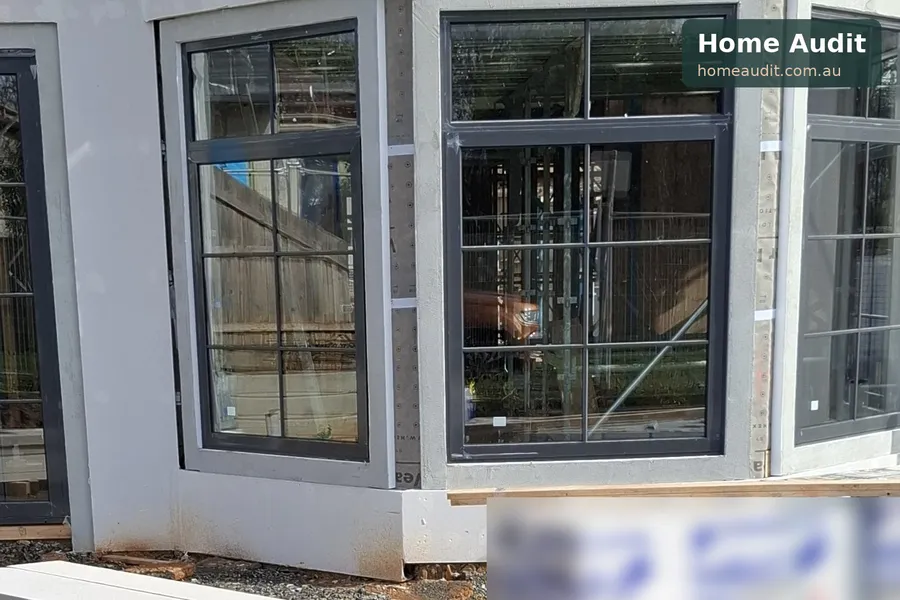
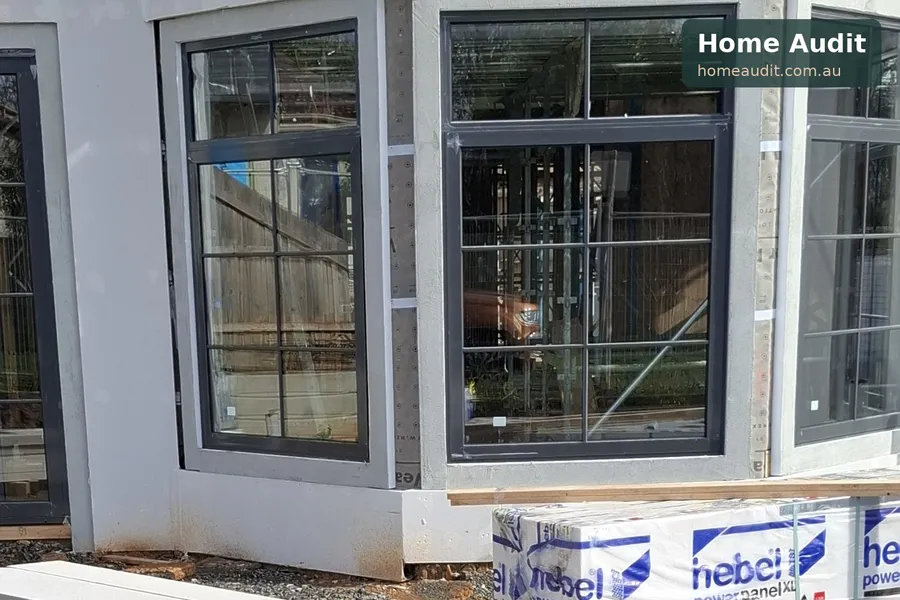
Frame stud case study; Hebel photo unblurred
Claude-Session: https://claude.ai/code/session_01BfHj1AeBmEoubpxuRUNwdY

Changed region(s): [[0.5289, 0.81, 1.0, 1.0]]

diff --git a/components/case-study.tsx b/components/case-study.tsx
@@ -126,3 +126,40 @@ export function HebelBaseCaseStudy() {
     />
   )
 }
+
+// New home frame stage: warped studs that would leave the plasterboard
+// uneven. Fixed by the builder within a week of the report.
+export function FrameStudCaseStudy() {
+  return (
+    <CaseStudy
+      eyebrow="From a recent frame inspection"
+      heading="Warped studs found before the plasterboard went on."
+      steps={[
+        ['Gaps.', 'A long level held across the studs showed gaps where studs were out of line.'],
+        ['Warped stud.', 'One stud had bent out of line with the rest of the wall.'],
+        [
+          'Why it matters.',
+          'Plasterboard fixed to warped studs can end up uneven or wavy. Once the plasterboard is on, this is almost impossible to fix.',
+        ],
+      ]}
+      body={['The report went to the builder, and the problem was fixed within a week.']}
+      cta={{ href: '/quote?service=new-home', label: 'Get a quote' }}
+      images={[
+        {
+          src: '/case-study-frame-gaps.webp',
+          alt: 'A level held across wall studs at frame stage, showing gaps where studs are out of line',
+          width: 900,
+          height: 1200,
+          label: 'Gaps between the level and the studs',
+        },
+        {
+          src: '/case-study-frame-stud-warped.webp',
+          alt: 'A level held against a warped timber stud at frame stage',
+          width: 900,
+          height: 1200,
+          label: 'A warped stud',
+        },
+      ]}
+    />
+  )
+}

diff --git a/tests/inspection-agreement.test.ts b/tests/inspection-agreement.test.ts
@@ -108,6 +108,8 @@ test('thermal case study does not promise thermal imaging on every inspection', 
   assert.match(card, /The buyer used it to renegotiate the price/)
   assert.match(card, /pink waterproof coating/)
   assert.match(await source('app/new-home-inspections/page.tsx'), /<HebelBaseCaseStudy \/>/)
+  assert.match(await source('app/new-home-inspections/page.tsx'), /<FrameStudCaseStudy \/>/)
+  assert.match(card, /fixed within a week/)
   assert.match(a.agreementPlainText(), /thermal imaging, unless the Order states that it is included/)
   const service = await source('app/building-and-pest-inspections/page.tsx')
   const home = await source('app/page.tsx')

diff --git a/app/new-home-inspections/page.tsx b/app/new-home-inspections/page.tsx
@@ -1,5 +1,5 @@
 import Link from 'next/link'
-import { HebelBaseCaseStudy } from '@/components/case-study'
+import { FrameStudCaseStudy, HebelBaseCaseStudy } from '@/components/case-study'
 import { JsonLd } from '@/components/json-ld'
 import { pageMetadata } from '@/lib/metadata'
 import { SITE_URL } from '@/lib/site'
@@ -120,6 +120,8 @@ export default function NewHomeInspectionsPage() {
                 </article>
               ))}
             </div>
+
+            <FrameStudCaseStudy />
 
             <HebelBaseCaseStudy />
 

diff --git a/CHANGELOG.md b/CHANGELOG.md
@@ -11,8 +11,12 @@
 - New home inspections page (after the stage cards): Hebel walls missing
   the waterproof coating at the base, shown next to a wall done correctly
   with the pink base coating; hard to see once rendered.
-- Photos: Home Audit watermark; device brand and model and the Hebel
-  packaging blurred. The thermal photo has the on-screen labels in English.
+- New home inspections page: warped studs found at frame stage (a level
+  showing gaps, and a warped stud). Plasterboard on warped studs can be
+  uneven or wavy and is almost impossible to fix later; the builder fixed
+  it within a week of the report.
+- Photos: Home Audit watermark; the thermal camera's brand and model are
+  blurred (other photos are not). The thermal photo has the on-screen labels in English.
 - The card says the inspector may use thermal imaging as an extra check
   where conditions allow and it is necessary (owner wording), consistent
   with clause 5.1(w) of the Inspection Agreement.
